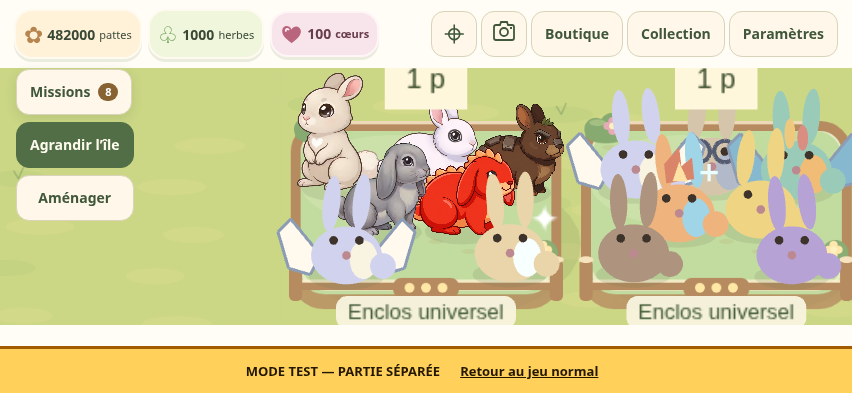
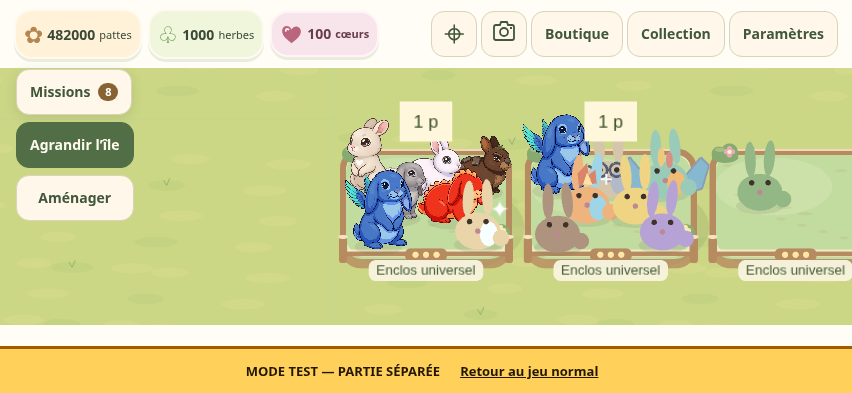
Integrate complete Volant original with Bélier Gris and Feu; remove cropped reference

diff --git a/prairie-lapins-prototype/src/config/rabbitArt.ts b/prairie-lapins-prototype/src/config/rabbitArt.ts
@@ -25,7 +25,12 @@ export const FIRE_ART = {
   url: `${import.meta.env.BASE_URL}assets/rabbits/feu/feu-v1.png`,
   width: 1004, height: 827, worldWidth: 50, groundY: 12,
 } as const;
-export const RABBIT_ART = [SNOW_ART, STRAW_ART, EARTH_ART, LOP_ART, FIRE_ART] as const;
+export const FLIGHT_ART = {
+  species: 'volant', texture: 'rabbit-volant-original-v1',
+  url: `${import.meta.env.BASE_URL}assets/rabbits/volant/volant-v1.png`,
+  width: 814, height: 966, worldWidth: 50, groundY: 12,
+} as const;
+export const RABBIT_ART = [SNOW_ART, STRAW_ART, EARTH_ART, LOP_ART, FIRE_ART, FLIGHT_ART] as const;
 export type RabbitArt = typeof RABBIT_ART[number];
 export function rabbitArt(species?: string): RabbitArt | undefined {
   return RABBIT_ART.find(art => art.species === species);

diff --git a/prairie-lapins-prototype/docs/belier-feu-volant-v1.md b/prairie-lapins-prototype/docs/belier-feu-volant-v1.md
@@ -1,22 +1,21 @@
-# Bélier Gris, Feu et Volant — chantier en attente de la source Volant
+# Bélier Gris, Feu et Volant — originaux intégrés
 
-Base : dernier `production` `e455986`, application publiée `5248235`. Neige, Paille et Terre sont validés sur iPhone par le joueur ; leurs fichiers, paramètres d’échelle et ancrage restent inchangés.
+Base : production `e455986`, application précédente `5248235`. Neige, Paille et Terre validés sur iPhone restent inchangés, fichiers et paramètres compris. Règles, sauvegardes, caméra, île, habitats, décorations et autres espèces inchangés ; Supabase en pause.
 
-Bélier Gris et Feu sont préparés et intégrés dans cette branche de travail. Chaque espèce réutilise la méthode des originaux déjà validés : texture préchargée une seule fois, image entière sans déformation, même PNG dans habitats et portraits, ancrage au sol `(0.5, 1)` à `y = 12`, sélection par son masque alpha. Les noms des portraits proviennent désormais du catalogue `SPECIES`, ce qui permet d’étendre le registre sans maintenir une liste de trois noms. Aucun changement aux règles, sauvegardes, caméra, île, habitats ou décorations ; autres designs et Supabase conservés en l’état.
+Les trois espèces réutilisent la méthode existante : une texture par espèce, même PNG dans habitats, fiches, boutique, collection et parents, image entière animée par translation sans déformation, masque alpha pour la sélection. Les noms des portraits proviennent du catalogue `SPECIES`.
 
-| Espèce | Source conservée | Asset | Dimensions | Largeur monde |
+| Espèce | Source | Asset | Dimensions | Largeur monde |
 | --- | --- | --- | --- | --- |
-| Bélier Gris | [source](reference/belier-gris/source.png) | [PNG](../public/assets/rabbits/belier-gris/belier-gris-v1.png) | 527 × 488 | 48 |
-| Feu | [source](reference/feu/source.png) | [PNG](../public/assets/rabbits/feu/feu-v1.png) | 1004 × 827 | 50 |
+| Bélier Gris | [original](reference/belier-gris/source.png) | [PNG](../public/assets/rabbits/belier-gris/belier-gris-v1.png) | 527 × 488 | 48 |
+| Feu | [original](reference/feu/source.png) | [PNG](../public/assets/rabbits/feu/feu-v1.png) | 1004 × 827 | 50 |
+| Volant | [nouvel original](reference/volant/source.png) | [PNG](../public/assets/rabbits/volant/volant-v1.png) | 814 × 966 | 50 |
 
-[Préparation reproductible](reference/prepare-belier-feu.sh), ImageMagick 7 : retrait du fond connecté, masque alpha nettoyé, marge transparente de quatre pixels, RGB opaques conservés. Pointes des moustaches du Bélier préservées hors du museau pour éviter leur suppression par l’érosion. Le bandeau gris du fond s’arrête avant le corps et est retiré. [Comparaison des pixels](validation/belier-feu-v1/pixel-fidelity.json) : différence RGB maximale **0** sur 141 564 pixels opaques du Bélier et 539 351 de Feu.
+Volant utilise `Design des lapins/volant.png`, blob `007d40a6e1a5ecefe5492999d187efb4a9fe1a82` fourni sur main `e316c14`. L’ancienne référence `Lapin Volant.png`, au museau coupé, est supprimée de la branche livrée. Aucun redessin ni illustration générée. Le corps de Volant conserve une taille comparable à Paille : les ailes ne déterminent pas seules l’échelle. Ancrage commun `(0.5, 1)`, y = 12.
 
-Comparaisons : original à gauche, capture réelle de la fiche à droite, agrandie uniformément depuis son format 150 × 140 : [Bélier Gris](validation/belier-feu-v1/belier-gris-reference-vs-game.png), [Feu](validation/belier-feu-v1/feu-reference-vs-game.png). [Sept occupants mixtes](validation/belier-feu-v1/seven-occupants.png).
+[Préparation reproductible](reference/prepare-belier-feu.sh) : suppression du fond connecté, nettoyage du masque alpha, quatre pixels transparents autour, RGB conservés. [Comparaison des pixels](validation/belier-feu-v1/pixel-fidelity.json) : différence RGB maximale 0 pour les pixels opaques des trois PNG.
 
-Contrôles locaux réussis : **586 tests / 18 fichiers**, TypeScript, builds normal et laboratoire, 21 sélections individuelles aux zooms 0,8 / 1,05 / 1,65 parmi Paille, Neige, Terre, Bélier Gris, Feu, Volant provisoire et Brumelin ; oreilles tombantes, fiches, boutique, collection, parents et écran portrait. [Rapport Chromium](validation/belier-feu-v1/browser.json). Le fixture mixte est créé uniquement par le script navigateur via le contrôleur d’import, sans modifier les scénarios ni introduire de hook dans le jeu livré. Aucun iPhone physique disponible pour ces nouveaux rendus.
+Comparaisons référence à gauche / capture réelle de la fiche à droite : [Bélier Gris](validation/belier-feu-v1/belier-gris-reference-vs-game.png), [Feu](validation/belier-feu-v1/feu-reference-vs-game.png), [Volant](validation/belier-feu-v1/volant-reference-vs-game.png). [Habitat mixte](validation/belier-feu-v1/seven-occupants.png).
 
-## Blocage concret pour Volant
+Contrôles locaux : 586 tests / 18 fichiers, TypeScript, builds normal et laboratoire ; 21 sélections aux zooms 0,8 / 1,05 / 1,65, oreilles, profils, boutique, collection, parents et écran portrait. [Rapport navigateur](validation/belier-feu-v1/browser.json). Le fixture mixte et les sondes sont limités au script ; aucun hook dans l’application livrée. Vérification Chromium tactile, sans iPhone physique disponible.
 
-L’original [GitHub](https://github.com/sullivanlegoff-code/Project-L/blob/production/Design%20des%20lapins/Lapin%20Volant.png), aussi conservé [ici](reference/volant/source.png), a un contour de museau déjà coupé par son bord droit à x = 1023. Aucune reconstruction ni génération n’est effectuée. Le joueur a explicitement choisi d’attendre une référence complète. En attendant, le visuel provisoire de Volant reste actif. Les ailes nécessiteront une échelle fondée sur le corps et un contrôle du masque alpha parmi les six originaux.
-
-Cette branche est un brouillon : **aucune fusion ni publication** tant que les trois rendus ne sont pas finalisés et validés. Le jeu public reste en `5248235` avec Neige, Paille et Terre inchangés.
+La validation CI et la publication des quatre routes sont suivies dans la PR nº 7.
